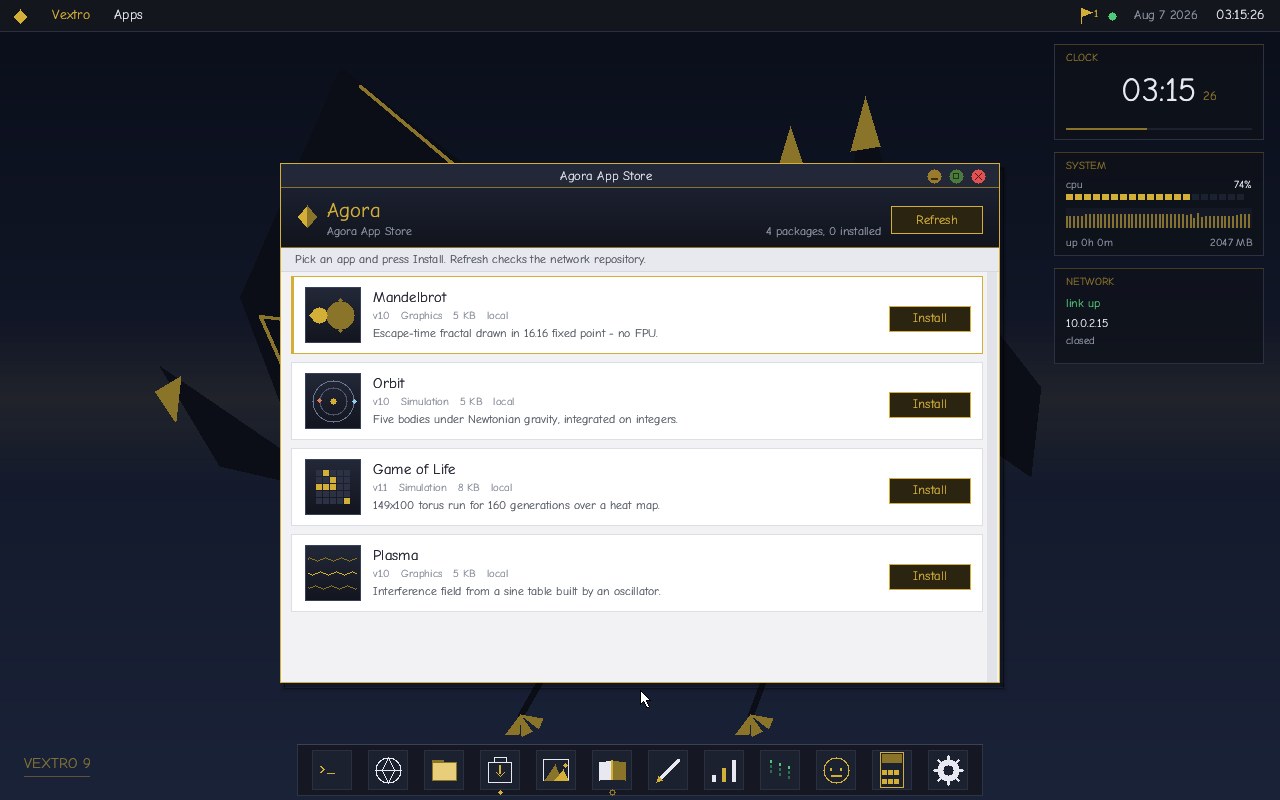
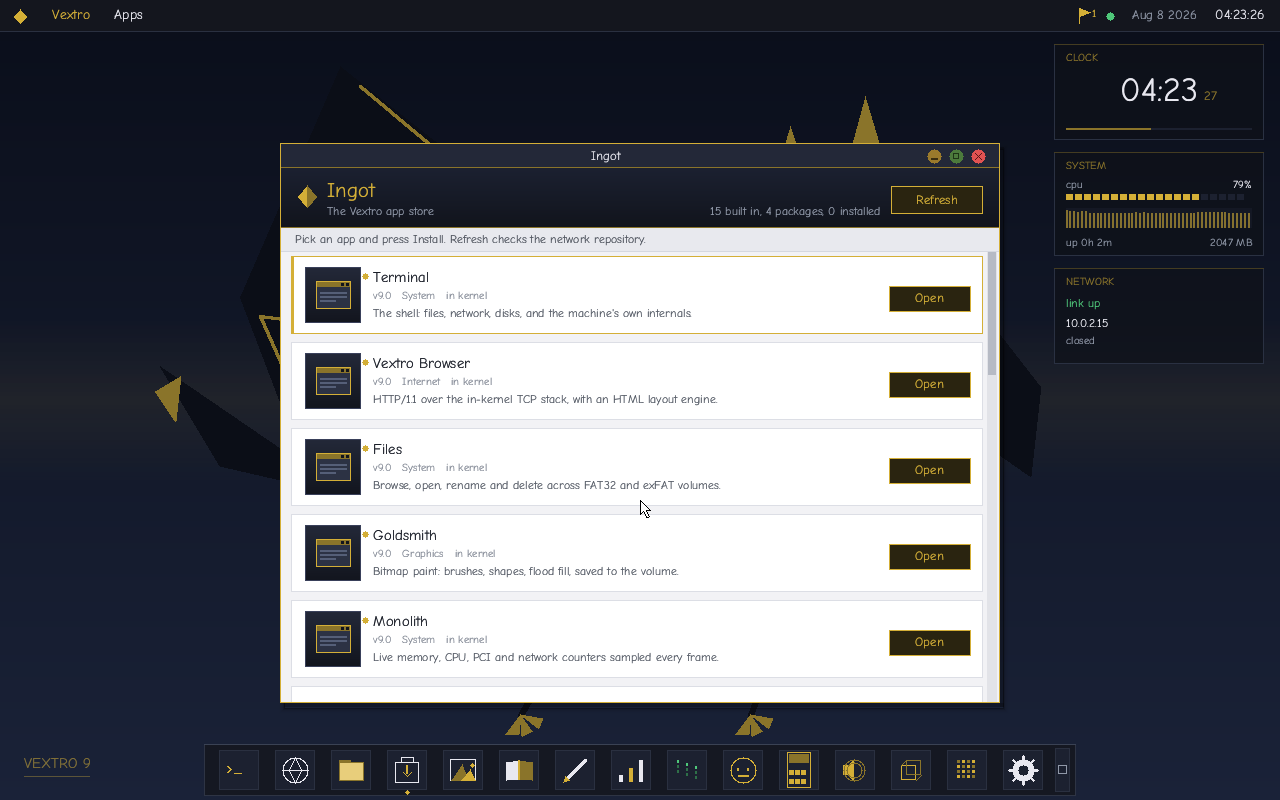
docs: the API, the hypervisor, the codecs, and a smaller not-here list
Three rows leave the "what is not here" table and one is replaced by a
narrower, truer claim.

  a 3D API exists; what no hardware here can do is rasterise it
  compressed audio exists; compressed video does not
  a hypervisor exists on x86; the ARM64 port has EL2 but not one

The ARM row is the interesting one, because it is measured rather than
asserted: -M virt has no EL2, virtualization=on gives the board one but
HVF refuses it, TCG panics on an ARMv8.0 core for want of VHE, and -cpu
max boots to EL2. That is a result, and it is what an honest "not yet"
looks like.

Also records the Q5_1 bug in the language-model section. The suspicion
had been on K-quant dequantisation for weeks; the model does not use
K-quants at all.

diff --git a/src/desktop.h b/src/desktop.h
@@ -90,11 +90,29 @@ static dock_config_t dock_cfg = {
     .edge = DOCK_EDGE_BOTTOM,
 };
 
+/*
+ * The icon size actually used, which is what Settings asked for shrunk
+ * until the row fits the screen.
+ *
+ * Sixteen launchers at 40 px need 928 px of bar. The x86 default mode is
+ * 1280 wide and never noticed; the ARM port's is 800, where the row ran
+ * off both ends and the launchers at each end could not be clicked at
+ * all. Fitting is computed rather than assumed, so it stays correct at
+ * any mode and any number of installed apps.
+ */
+static int32_t dock_eff_isz = 40;
+
 static void dock_recalc(uint32_t scr_w, uint32_t scr_h) {
-    (void)scr_w;
-    dock_cfg.bar_h = dock_cfg.icon_sz + 12;
-    dock_cfg.bar_w = dock_item_count * (dock_cfg.icon_sz + 16) + 14
-                     + DOCK_SHOWDESK_W;
+    const int32_t along = (dock_cfg.edge == DOCK_EDGE_BOTTOM)
+                          ? (int32_t)scr_w : (int32_t)scr_h;
+    int32_t isz = dock_cfg.icon_sz;
+    while (isz > 18 &&
+           dock_item_count * (isz + 16) + 14 + DOCK_SHOWDESK_W > along - 16)
+        isz -= 2;
+
+    dock_eff_isz = isz;
+    dock_cfg.bar_h = isz + 12;
+    dock_cfg.bar_w = dock_item_count * (isz + 16) + 14 + DOCK_SHOWDESK_W;
     if (dock_cfg.edge == DOCK_EDGE_BOTTOM)
         dock_cfg.bar_y = (int32_t)scr_h - dock_cfg.bar_h - 4;
     else
@@ -2451,7 +2469,7 @@ static void dock_icon_rect(uint32_t scr_w, int idx,
                            int32_t *ow, int32_t *oh) {
     int32_t rx, ry, rw, rh;
     dock_bar_rect(scr_w, &rx, &ry, &rw, &rh);
-    int32_t isz = dock_cfg.icon_sz;
+    int32_t isz = dock_eff_isz;
     int32_t cell = isz + 16;
 
     if (dock_cfg.edge == DOCK_EDGE_BOTTOM) {

diff --git a/src/chamber.h b/src/chamber.h
@@ -51,11 +51,17 @@ static void chamber_draw(uint32_t *buf, uint32_t w, uint32_t h,
                     hv.supported ? C_TEXT : 0xC08050u, 12);
     y += 18;
 
+    /*
+     * The line above already carries the specific reason, measured on
+     * this machine, so what follows is only the general shape of it.
+     * Kept identical across both trees: hyper.h is what differs, and
+     * this window reports whatever it found.
+     */
     if (!hv.supported) {
         const char *why =
-            "This build runs the guest on AMD-V. QEMU exposes it with";
+            "A guest needs hardware virtualisation the host can reach.";
         const char *why2 =
-            "-cpu max; an Intel processor reports no SVM and stops here.";
+            "On x86 that is AMD-V, which QEMU exposes with -cpu max.";
         ttf_draw_string(buf, (int)w, (int)h, cx + 14, y, why, C_TEXT_DIM, 11);
         ttf_draw_string(buf, (int)w, (int)h, cx + 14, y + 14, why2,
                         C_TEXT_DIM, 11);

diff --git a/README.md b/README.md
@@ -180,16 +180,32 @@ stays one sentence. Internal links resolve back into the archive, and Back
 restores your reading position.</td>
 </tr>
 <tr>
-<td><img src="docs/store.png" alt="Agora app store"></td>
+<td><img src="docs/store.png" alt="Ingot app store"></td>
 <td><img src="docs/store-app.png" alt="An installed app running"></td>
 </tr>
 <tr>
-<td><b>Agora</b> — a package store. Install writes a validated payload to
-the system volume and records it in a registry, so installed apps survive
-a reboot.</td>
+<td><b>Ingot</b> — the app store. It lists every application on the
+machine, built-in and installable alike, so the storefront answers "what
+is on this machine" and not merely "what else could be". Install writes a
+validated payload to the system volume and records it in a registry, so
+installed apps survive a reboot.</td>
 <td><b>…and they run.</b> Installed apps join the dock and open in their own
 window. This Mandelbrot is 16.16 fixed point — the kernel is compiled with
 no FPU at all.</td>
+</tr>
+<tr>
+<td><img src="docs/solid.png" alt="Solid, shading through the g3d API"></td>
+<td><img src="docs/chamber.png" alt="Chamber, a guest running under AMD-V"></td>
+</tr>
+<tr>
+<td><b>Solid</b> — 3D through <code>g3d</code>. The panel is the API
+reporting on itself: which backend is live, how many triangles survived
+culling, how many fragments were shaded, and the compiled size of the
+shader running them.</td>
+<td><b>Chamber</b> — a guest on AMD-V. The green line was written by
+guest code storing to <code>0xB8000</code>, translated by nested page
+tables; every exit in the log is a real VMEXIT at an address that matches
+the disassembly.</td>
 </tr>
 <tr>
 <td><img src="docs/photos.png" alt="Photos"></td>
@@ -215,9 +231,12 @@ password melts the screen.</td>
 <td width="50%"><img src="docs/snap.png" alt="A window snapped to half the screen"></td>
 </tr>
 <tr>
-<td><b>Peek and previews</b> — hovering the taskbar fades every window
-towards what is behind it and leaves its outline. The preview above the
-button is the window itself, captured out of the compositor.</td>
+<td><b>Peek and previews</b> — click the Show Desktop tab at the end of
+the taskbar and every window fades towards what is behind it, leaving its
+outline; click again, or click any window, to bring the stack back. It is
+a latch, not a hover, so crossing the taskbar never dissolves your work.
+The preview above a button is the window itself, captured out of the
+compositor.</td>
 <td><b>Snap</b> — drag a window to an edge and it takes half the work
 area; drag it to the top and it fills it. The target is previewed while
 the button is held, so the gesture can be abandoned.</td>
@@ -345,9 +364,9 @@ most often assumed to be present:
 
 | | Why not |
 |---|---|
-| **A 3D graphics *API*** | There is a software rasteriser (`src/v3d.h`, and the **Solid** app) — integer 16.16, z-buffered, backface-culled, flat-shaded from real face normals. What does not exist is an *API* over a GPU: no shader compiler, no command-buffer scheduler, and `src/igpu.h` remains a 2D blitter. |
-| **H.264, AAC, DivX** | Still no compressed-media decoder of any kind — each is months of work. The **Media Player** handles uncompressed PCM in a RIFF/WAVE container, which is what `src/ac97.h` can now actually play. |
-| **A virtualised legacy environment** | There is no hypervisor, and there will not be one. What exists instead is a real *emulator* for a real legacy machine: `src/chip8.h` interprets all thirty-five CHIP-8 instructions in software, with a ROM written in-tree. Interpreting a 4 KB machine honestly beats emulating x86 badly. |
+| **Hardware-rasterised 3D** | There *is* a 3D API now — `src/g3d.h`: pipelines, buffers, matrices, a command buffer, and a shader language with a real compiler (see below). What no hardware here can do is run it: the Gen9 driver is a blitter by design and QEMU's display has no 3D engine, so geometry and fragment stages are CPU work and the backend dispatches only clears to the GPU. Solid reports which backend is live. |
+| **H.264, AAC, DivX** | Compressed *audio* is here — FLAC, IMA ADPCM and G.711, in `src/flac.h` and `src/adpcm.h`. Compressed *video* is not: H.264 alone is months of work, and there is no video container, no frame scheduler and no colour-space conversion to hang it on. |
+| **A hypervisor on ARM64** | x86 has one — `src/hyper.h` runs a guest on AMD-V with nested paging. The ARM64 port does not: it reaches EL2 only under TCG emulation with a VHE-capable core (HVF refuses to provide EL2 at all, and Limine panics on an ARMv8.0 one). The prerequisite is measured and reported rather than assumed; the hypervisor itself is not written. |
 | **Enterprise networking** | `src/netstack.h` is ARP, IPv4, ICMP, UDP, DHCP, DNS and one TCP connection at a time. No VPN, no branch caching, no directory services. |
 | **TLS** | No cryptographic transport, so `https://` is refused rather than faked. |
 | **Full-disk encryption** | Individual directories can be sealed into encrypted containers (below); the volume itself is not encrypted, so filenames and free space are in the clear. |
@@ -397,13 +416,94 @@ build under full emulation was still consuming the prompt five minutes
 later.
 
 The model loads **by itself, in the background**, while the desktop stays
-live — there is nothing to type and nothing to wait for. Q4_K
-dequantisation is checked against a reference implementation rather than
-eyeballed, and `llm probe` compares intermediate tensors to the digit.
+live — there is nothing to type and nothing to wait for. Dequantisation is
+checked against an independently written reference decoder for every type
+the model uses, and `llm probe` compares intermediate tensors to the digit.
+
+That check exists because of a bug worth recording. The model answered
+fluent nonsense for a long time, and the suspicion was on K-quant
+dequantisation — which this model does not use at all. Three of its
+tensors are **Q5_1**, `quant_block` knew the type so the file loaded
+cleanly, and `dequant_block` had no case for it, so every such block
+returned −1 and the matmul quietly returned zero. All three are
+`ffn_down`, in layers 0, 1 and 10. Layer 0 corrupts the residual stream
+before anything else runs, which is exactly how you get logits that carry
+no signal. Two tables disagreeing about which formats exist was the whole
+defect; they agree now, and a type that is missing fails loudly at load
+rather than silently at inference.
 
 It is the one translation unit in the build allowed to touch the FPU.
 Everything else is compiled `-mno-sse -mno-80387`, so no interrupt handler
 can quietly acquire a floating-point dependency.
+
+### A shader language, compiled at run time
+
+`src/g3d.h` is the 3D API — pipelines, vertex and index buffers, matrices,
+uniforms, a command buffer recorded and submitted as a frame — and the part
+that makes it an API rather than a renderer is **G3SL**: a small language
+with a real compiler. A tokeniser, a recursive-descent parser with operator
+precedence, static type checking over scalars and `vec3`, and a stack
+machine to run the result.
+
+```
+# a lambert term, and a rim light on the silhouette
+d   = sat(dot(n, l));
+rim = sat(1.0 - dot(n, e));
+color = base * (0.18 + 0.82 * d) + gold * (rim * rim * 0.55);
+```
+
+Type errors are compile errors with a line number — `dot` of two scalars,
+a `vec3` where a scalar belongs, a variable changing type — and the Solid
+window prints the message rather than drawing something strange. Programs
+compile from text at run time, so switching shaders visibly changes the
+picture. Every value inside is 16.16 fixed point, because a float would
+fail to link.
+
+### A guest that runs on the processor
+
+`src/hyper.h` is a type-1 hypervisor on AMD-V. Not an interpreter: the
+guest's instructions execute natively and only what the host intercepts
+traps back — CPUID, I/O, MSR access, HLT and the hypercall.
+
+AMD-V rather than VT-x for a checkable reason. QEMU's TCG interpreter
+implements SVM with nested paging and does not implement VMX at all:
+
+```
+query-cpu-model-expansion max  ->  svm = True, npt = True, vmx = False
+```
+
+so the AMD path is the one that can actually be run here, and the Intel
+path would be code nobody could execute. The guest is 32-bit protected
+mode with paging off — under nested paging it needs no page tables of its
+own — and it gets one megabyte of guest-physical that the nested page
+table maps and nothing else. It writes to a text screen at `0xB8000`,
+makes hypercalls, reads the hypervisor CPUID leaf, and does an I/O write.
+
+Every exit address in Chamber's log matches the disassembly: `VMMCALL` at
+`0x1023`, `CPUID` at `0x1030`, `IOIO` at `0x104F` carrying port `0x3F8` in
+`EXITINFO1`. NRIP-save is absent under TCG, so exits advance the
+instruction pointer by known lengths and use the processor's next-RIP
+where it provides one.
+
+### A decoder you can check exactly
+
+`src/flac.h` decodes FLAC: constant, verbatim, fixed and LPC subframes,
+Rice partitions with both parameter widths and the raw escape, all four
+channel decorrelations, 8/16/24 bits, with CRC-8 on each frame header and
+CRC-16 on each frame. It is integer from end to end, which is why a
+machine with no FPU can have it at all.
+
+Lossless is the point. A lossy decoder can only be judged by ear; this one
+is compressed with the reference encoder at its densest setting and the
+samples must come back **identical**. Nine signals chosen to reach
+different parts of the decoder — silence for constant subframes, a ramp
+for the fixed predictors, noise for the Rice escape, correlated channels
+for mid/side — all exact.
+
+That caught a real bug: the Rice partitioning is defined over the whole
+block, not over the residual. Sizing it over the residual is invisible at
+partition order 0, which is what short frames use, and only appears once
+an encoder picks a real partition order.
 
 ### Wikipedia, offline, from the raw archive
 
@@ -567,8 +667,11 @@ sine table, which are data rather than logic.)
 
 | | |
 |---|---|
-| **Desktop** | Window manager with minimize, maximize, snap-to-edge, shake-to-clear and a peek that fades the stack; taskbar with live window previews and jump lists; desktop gadgets; start-menu search over apps, recent items and the volume; Action Center; five wallpaper themes with an optional slideshow; idle dimming |
-| **Applications** | Terminal with 38 Unix commands, browser, file manager, offline Wikipedia reader, image viewer, paint, system monitor, package store, calculator, settings |
+| **Desktop** | Window manager with minimize, maximize, snap-to-edge, shake-to-clear and a latched Show Desktop peek; taskbar with live window previews and jump lists; desktop gadgets; start-menu search over apps, recent items and the volume; Action Center; five wallpaper themes with an optional slideshow; idle dimming |
+| **Applications** | Terminal with 38 Unix commands, browser, file manager, offline Wikipedia reader, image viewer, paint, system monitor, app store, calculator, media player, 3D viewer, CHIP-8, hypervisor console, settings |
+| **Audio** | AC97 bus-mastering playback; FLAC, IMA ADPCM and G.711 decoders, all integer |
+| **3D** | `g3d`: pipelines, vertex and index buffers, matrices, a command buffer, and G3SL — a shader language with a tokeniser, precedence parser, type checker and stack machine |
+| **Virtualisation** | AMD-V hypervisor on x86: VMCB, nested paging, and a 32-bit guest that runs on the processor |
 | **Filesystem** | Read/write exFAT with 64-bit sizes, FAT32 fallback, ustar ramdisk, MBR partitions, range reads out of files too big to buffer |
 | **Storage** | NVMe, AHCI/SATA, ATA PIO — behind one 512-byte sector view |
 | **Network** | IPv4, ICMP, UDP, DNS, TCP, async HTTP/1.0 with redirects; Intel e1000 driver |
@@ -593,12 +696,18 @@ src/
   term.h        Terminal: commands, history, scrollback, redirection
   browser.h     HTML renderer, navigation, links
   apps.h        Files / Settings / Photos / Wikipedia + chat / About
-  store.h       Agora: catalog, installer, registry, storefront
+  store.h       Ingot: catalog, installer, registry, storefront
   llm.h llm.c   Transformer inference (the one FPU translation unit)
   zim.h         ZIM archive reader (offline Wikipedia)
   zstd.h        Zstandard decompressor
   lzma.h        LZMA / LZMA2 / xz decompressor
   sci.h         Compressed image format + decoder
+  flac.h        FLAC decoder     adpcm.h  IMA ADPCM + G.711
+  ac97.h        AC97 codec + bus-master playback
+  media.h       Media Player: track list, transport, decode dispatch
+  g3d.h         3D API + G3SL shader compiler   solid.h  its client app
+  hyper.h       AMD-V hypervisor  chamber.h  the window onto it
+  chip8.h       CHIP-8 interpreter
   ttf.h         TrueType rasteriser        gfx.h  Drawing primitives
   netstack.h    IPv4 / ICMP / UDP / DNS / TCP / HTTP
   e1000.h       Intel NIC driver
